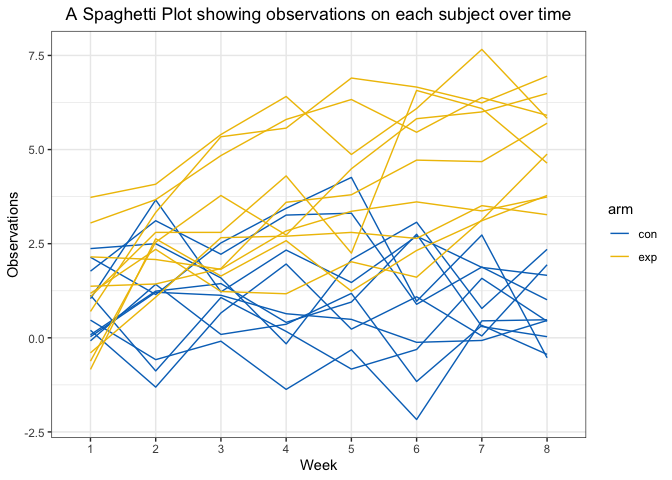
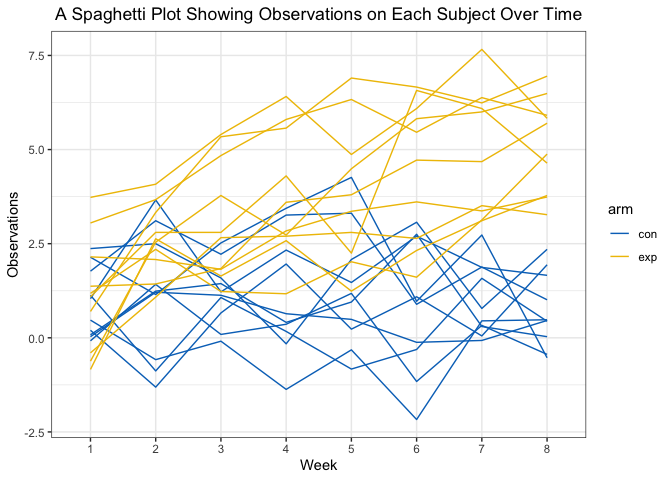
problem 3 finished, 11/01/2019

Changed region(s): [[0.0625, 0.0, 0.875, 0.0625]]

diff --git a/p8105_hw5_zl2860.md b/p8105_hw5_zl2860.md
@@ -3,7 +3,10 @@ p8105\_hw5\_zl2860
 Zongchao Liu
 11/1/2019
 
+# Load data
+
 ``` r
+# Load data
 set.seed(10)
 
 iris_with_missing = iris %>% 
@@ -14,7 +17,8 @@ iris_with_missing = iris %>%
 # Problem 1
 
 ``` r
-fill_in<-
+# create a filled-in dataset
+fill_in <-
   function(vec){
     if(is.numeric(vec)){
       mean_vec = mean(vec, na.rm= TRUE) # mean is apprxiumated
@@ -27,25 +31,50 @@ fill_in<-
 
 data_filled <-
   map_df(iris_with_missing, fill_in)
+
+# check if missing values are replaced
+skimr::skim(data_filled)
 ```
+
+    ## Skim summary statistics
+    ##  n obs: 150 
+    ##  n variables: 5 
+    ## 
+    ## ── Variable type:character ────────────────────────────────────────────────────────────────────────────────────────────
+    ##  variable missing complete   n min max empty n_unique
+    ##   Species       0      150 150   6  10     0        3
+    ## 
+    ## ── Variable type:numeric ──────────────────────────────────────────────────────────────────────────────────────────────
+    ##      variable missing complete   n mean   sd  p0  p25 p50  p75 p100
+    ##  Petal.Length       0      150 150 3.77 1.6  1   1.7  4   4.97  6.9
+    ##   Petal.Width       0      150 150 1.19 0.72 0.1 0.4  1.2 1.8   2.5
+    ##  Sepal.Length       0      150 150 5.82 0.78 4.3 5.12 5.8 6.38  7.9
+    ##   Sepal.Width       0      150 150 3.08 0.4  2   2.82 3.1 3.27  4.4
+    ##      hist
+    ##  ▇▁▁▆▆▆▃▁
+    ##  ▇▁▁▇▃▃▂▂
+    ##  ▂▆▃▇▃▃▁▁
+    ##  ▁▂▃▇▂▂▁▁
+
+Missing values are replaced.
 
 # Problem 2
 
 ## Tidy the data
 
 ``` r
-file_names = list.files("./data/")
+file_names = list.files("./data/") # create a list of filenames
 
 study_data <-
   tibble( file_names = file_names) %>%
   bind_cols(map_df(str_c("./data/", file_names), read_csv)) %>%
-  separate(file_names, into = c("arm", "id"))
+  separate(file_names, into = c("arm", "id")) # tidy data
 
 data_con <- 
   study_data %>%
   filter(arm == "con")
 
-data_con %>%
+data_con %>% #only include control arm
   knitr::kable()
 ```
 
@@ -75,7 +104,7 @@ study_data %>%
   geom_line() +
   ggsci::scale_color_jco() +
   theme_bw() +
-  labs( title = "A Spaghetti Plot showing observations on each subject over time",
+  labs( title = "A Spaghetti Plot Showing Observations on Each Subject Over Time",
         x = "Week",
         y = "Observations") +
   theme(plot.title = element_text(hjust = .5))
@@ -88,3 +117,116 @@ in experimental arm is higher than that on the subjects in control arm.
 Also, over the 8 weeks, the observations on the subjects in experimental
 arm have an increasing trend while the observations in control arm
 fluctuate within a range.
+
+# Problem 3
+
+## Set the following design elements
+
+``` r
+set.seed(886) # ensure reproducible
+
+# buid function
+slr_func <- 
+  function(beta_1){
+    
+    n = 30
+    beta_0 = 2
+    sigma_squared = 50 #local defalut settings, we only change beta_1
+    
+    sim_data =  
+     tibble(
+       x = rnorm(n),
+       y = beta_0 + beta_1*x + rnorm(n, mean = 0, sd = sqrt(sigma_squared))) # create raw data for regression
+   
+   fit = lm(y ~ x, sim_data) # fit model
+   
+   fit %>%
+     broom::tidy() %>%
+     select(term,estimate, p.value) %>%
+     filter(term == "x") %>%
+     mutate(term = recode(term, "x" = "beta_1_hat")) #tidy the results
+  } 
+
+
+# generate 10000 datasets
+model_10000 <-
+  rerun(10000, slr_func(beta_1 = 0)) %>%
+  bind_rows() 
+
+# Repeat the above for β1={1,2,3,4,5,6}
+repeated_beta_1 <- 
+  tibble(beta_1 = c(1:6)) %>%
+  mutate(output_list = map(.x = beta_1, ~rerun(10000, slr_func(beta_1 = .x ))),
+         output_dfs = map(output_list,bind_rows)) %>%
+  select(-output_list) %>%
+  unnest(output_dfs) %>%
+  pivot_wider( names_from = term,
+               values_from = estimate) %>%
+  janitor::clean_names()
+```
+
+``` r
+repeated_beta_1 %>%
+  group_by(beta_1) %>%
+  summarize(prop_rejected = sum(p_value < 0.05)/n()) %>%
+  ggplot(aes( y = prop_rejected, x = beta_1)) +
+  geom_point() +
+  geom_smooth() +
+  theme_bw() +
+  labs( title = "Association Between Effect Size and Power",
+        x = "Beta_1",
+        y = "Power") +
+  theme(plot.title = element_text(hjust = .5))
+```
+
+![](p8105_hw5_zl2860_files/figure-gfm/unnamed-chunk-6-1.png)<!-- -->
+
+From the plot above, we see that as β1 increases, the power
+correspondingly increases. however, the power’s rate of increasing is
+gradually decreasing as β1
+increases.
+
+## Make a plot showing the average estimate of β̂ 1 on the y axis and the true value of β1 on the x axis
+
+``` r
+all_avg <-
+  repeated_beta_1 %>%
+  group_by(beta_1) %>%
+  summarize(avg_beta_hat = mean(beta_1_hat))
+  
+
+rejected_avg <- 
+  repeated_beta_1 %>%
+  mutate(rejection = ifelse( p_value < 0.05, "yes", "no")) %>%
+  filter( rejection == "yes") %>%
+  group_by(beta_1) %>%
+  summarize(avg_beta_hat = mean(beta_1_hat))
+
+ggplot() + 
+  geom_point(aes(x = beta_1, y = avg_beta_hat), data = all_avg) +
+  geom_smooth(aes(x = beta_1, y = avg_beta_hat), data = all_avg) +
+  geom_point(aes(x = beta_1, y = avg_beta_hat), data = rejected_avg) +
+  geom_smooth(aes(x = beta_1, y = avg_beta_hat, color = "red"), data = rejected_avg) +
+  theme_bw() +
+  labs( title = "Association Between the Average Estimates and True Values",
+        y = "Average Beta1 Hat",
+        x = "Beta1") +
+  theme(plot.title = element_text(hjust = .5)) +
+  ggsci::scale_color_lancet()
+```
+
+![](p8105_hw5_zl2860_files/figure-gfm/unnamed-chunk-7-1.png)<!-- -->
+
+The sample average of β̂1 across tests for which the null is rejected is
+always higher than the true value of β1. However, as the true value
+increases, the sample average of β̂1 gradually approxiates the true
+value.
+
+As we see in the first plot, when the true β1 is small, the power is
+also low. Therefore, given the null hypothesis β1 = 0 is FAlSE, the
+probability that a sampling result may reject H0 is relatively small.
+Hence, a greater “observed β̂1” is needed to reject the FALSE null
+hypothesis. However, as the true value of β increases, the power also
+increases, which means it becomes easier for an " observed β̂1 " to
+reject null hypothesis. That’s why as the true value increases, the
+sample average of β̂1 gradually approxiates the true value.
